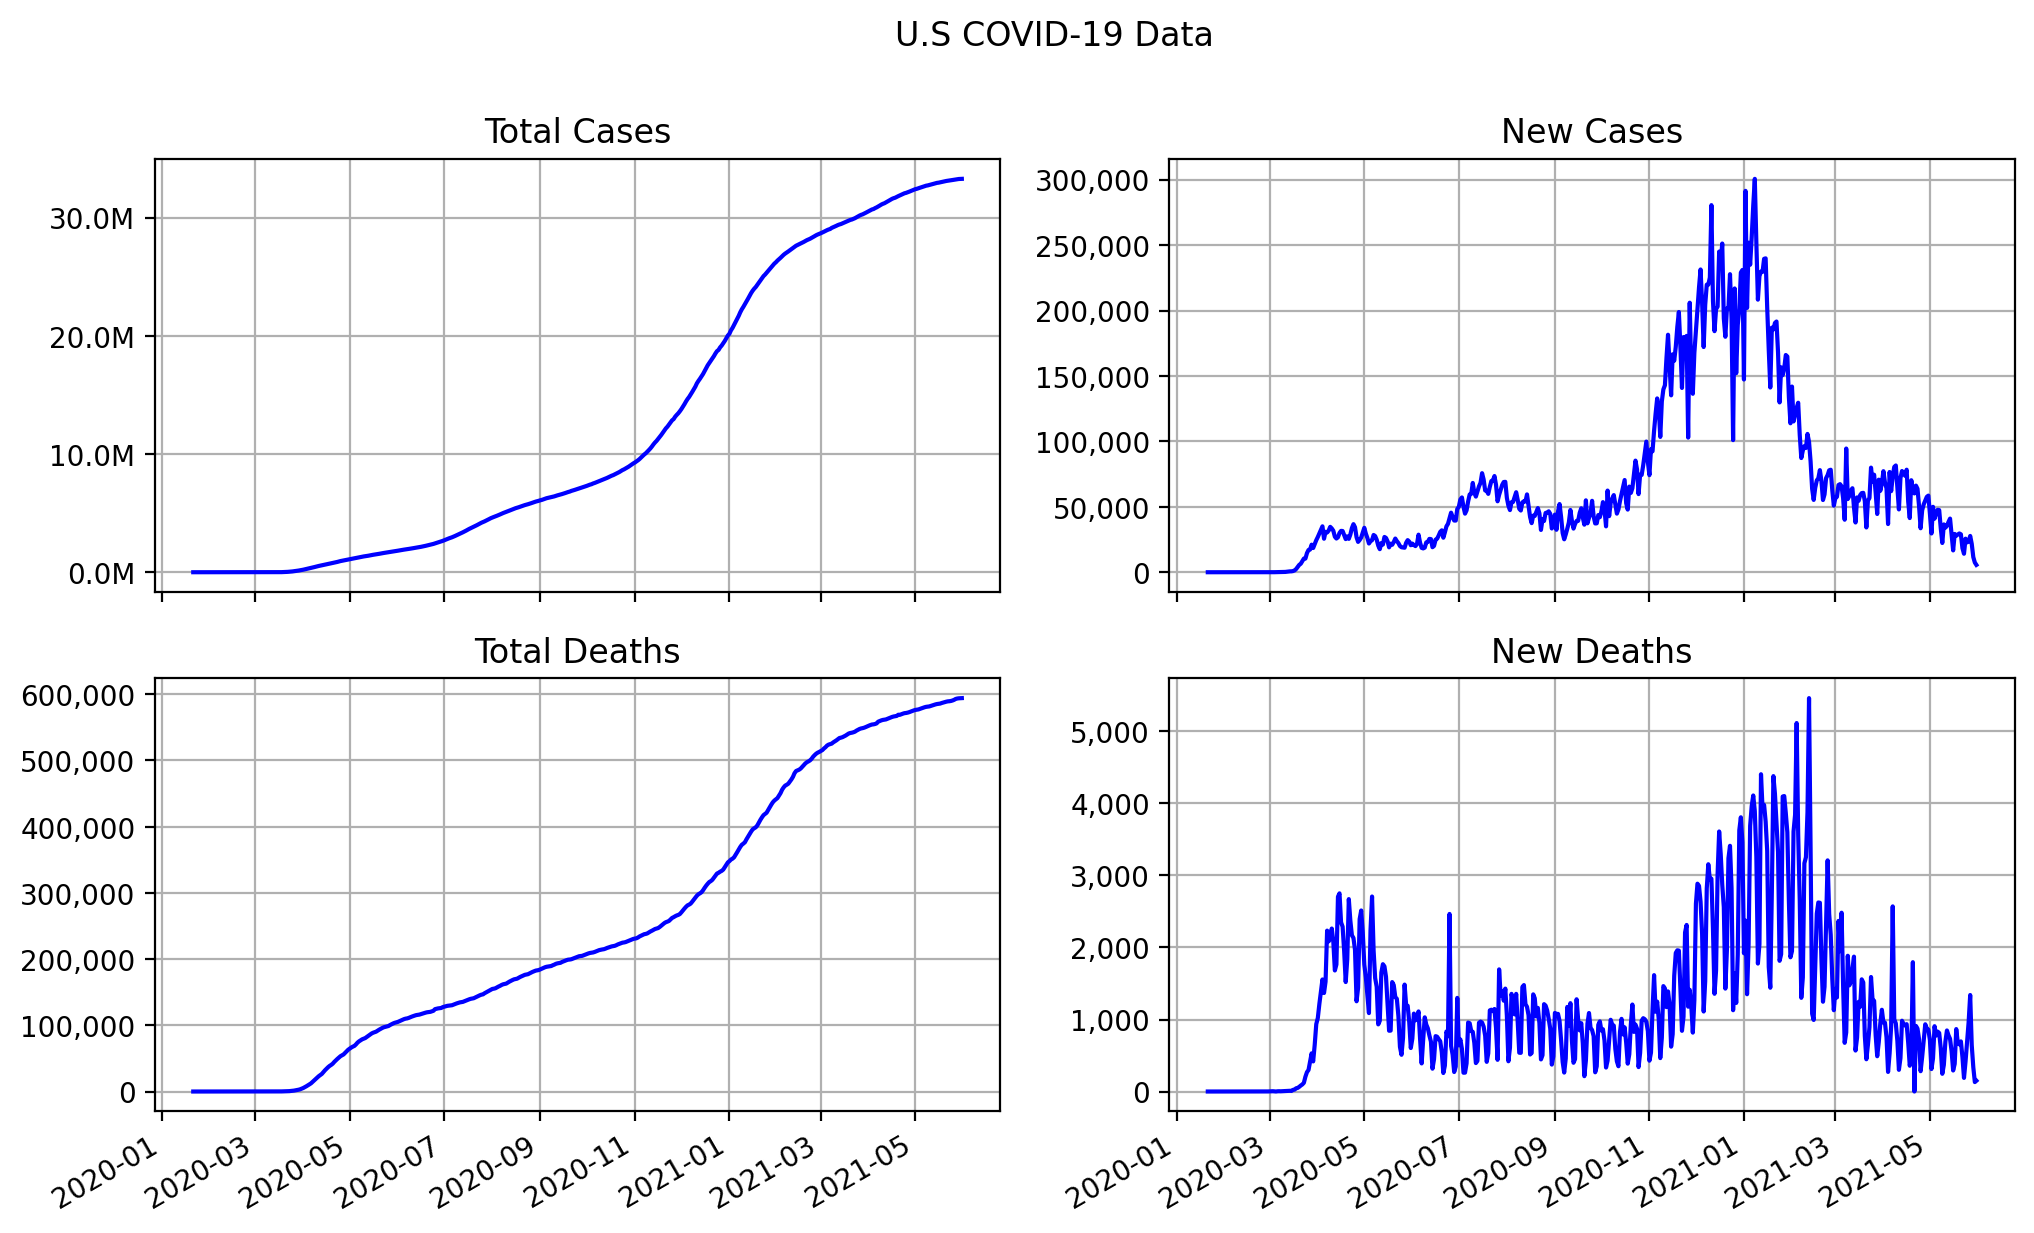
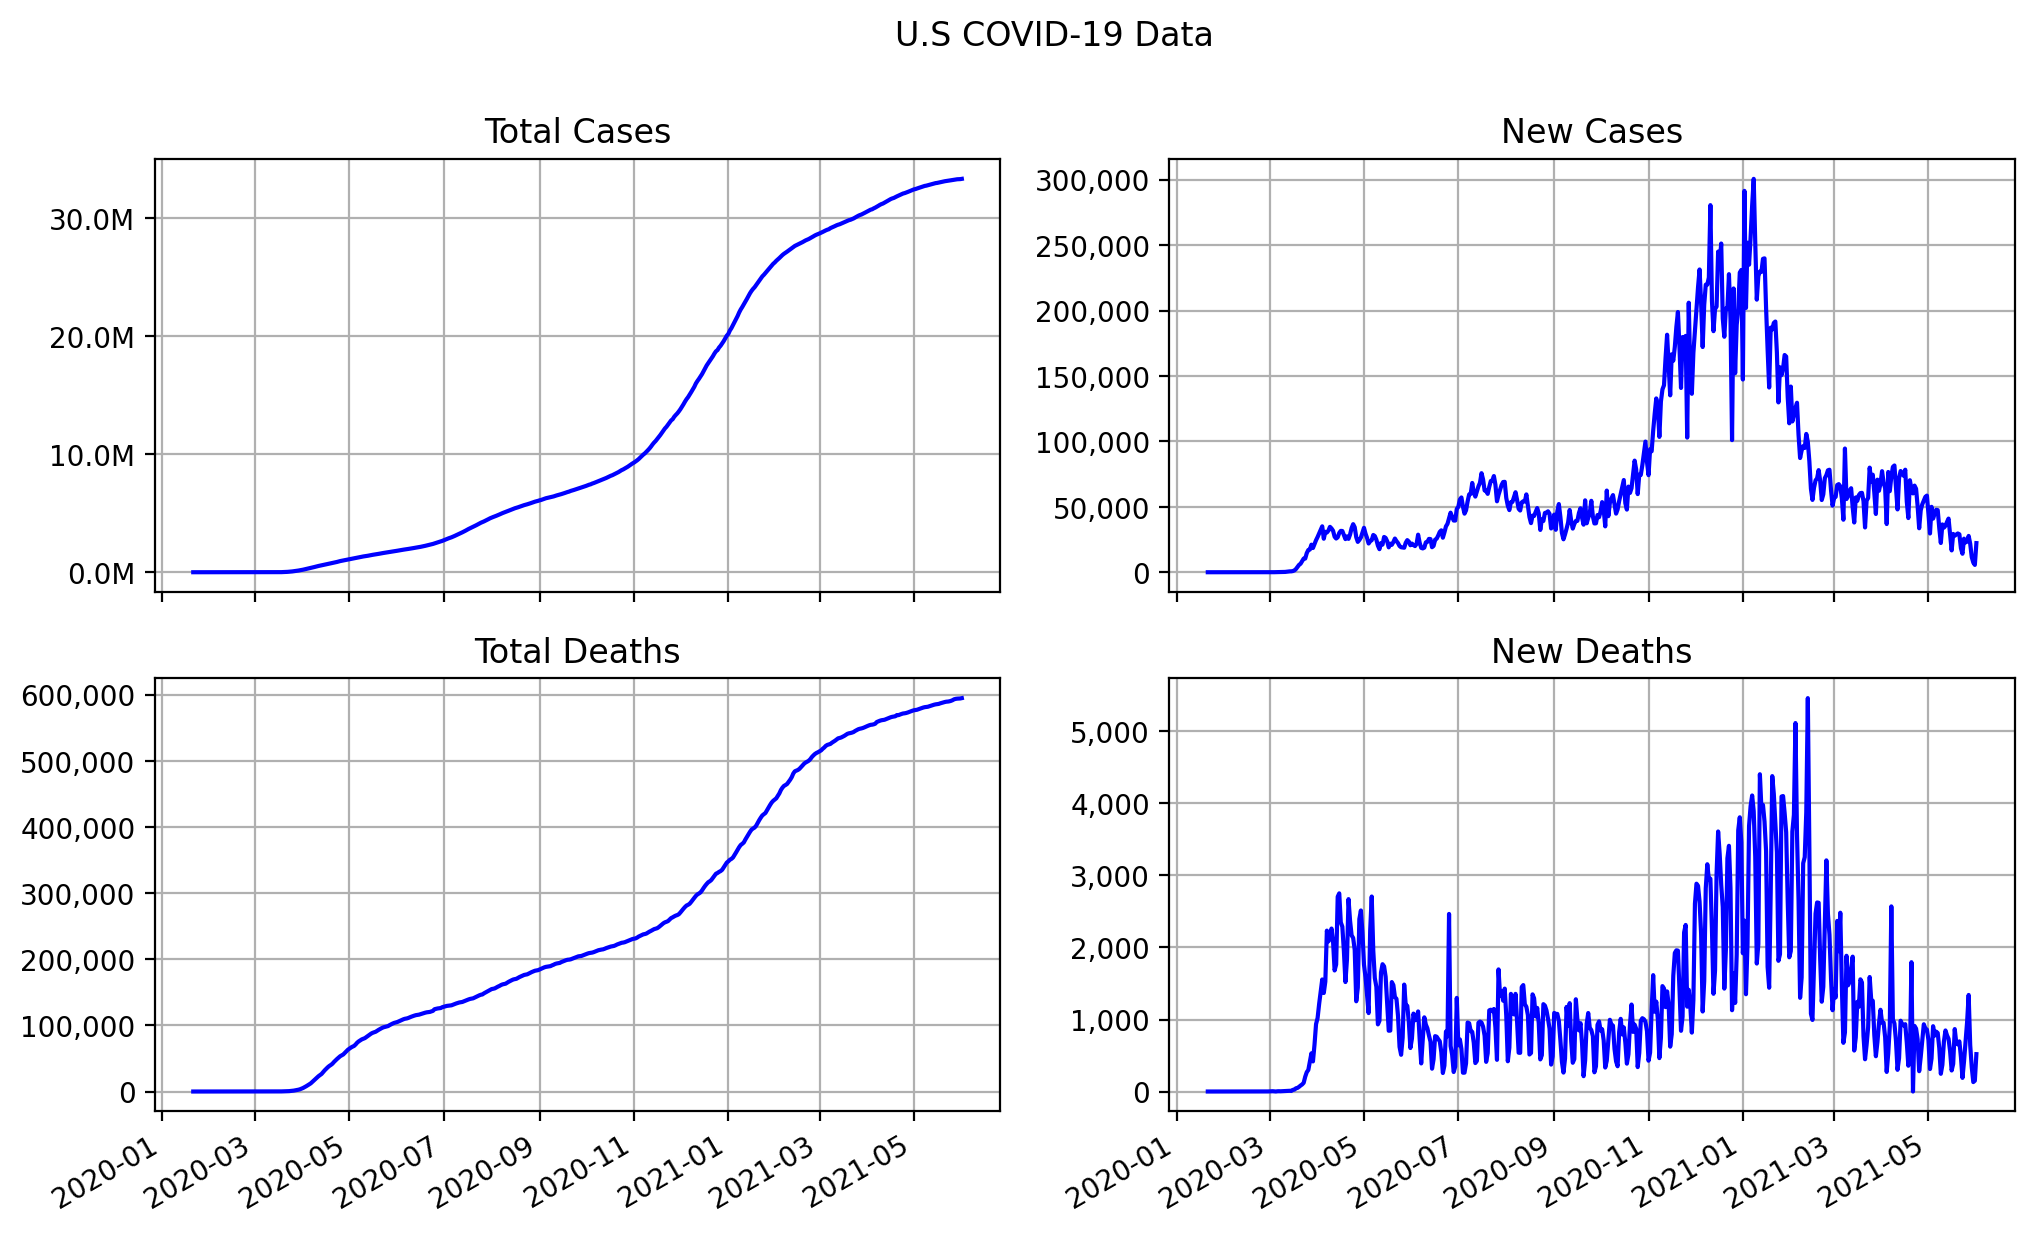
Updating data.

diff --git a/README.md b/README.md
@@ -1,10 +1,10 @@
-###### Updated June 01, 2021, 2:55 A.M EST
+###### Updated June 02, 2021, 10:02 A.M EST
 # US COVID-19 Data 
 ###### [ [U.S. Data](us.csv) ([Raw CSV](https://raw.githubusercontent.com/drebrb/covid-19-data/master/us.csv)) | [U.S. State-Level Data](states) ]
-| U.S    | Total Reported   | On May 31   | 7-Day Average   |
-|:-------|:-----------------|:------------|:----------------|
-| Cases  | 33,280,967       | 5,602       | 17,189          |
-| Deaths | 594,201          | 150         | 609             |
+| U.S    | Total Reported   | On June 01   | 7-Day Average   |
+|:-------|:-----------------|:-------------|:----------------|
+| Cases  | 33,303,277       | 22,260       | 17,118          |
+| Deaths | 594,722          | 519          | 584             |
 ###### [ [U.S. Plot](us.png) ]
 ![Plot](https://github.com/drebrb/covid-19-data/blob/master/us.png)
 # US COVID-19 Vaccinations
